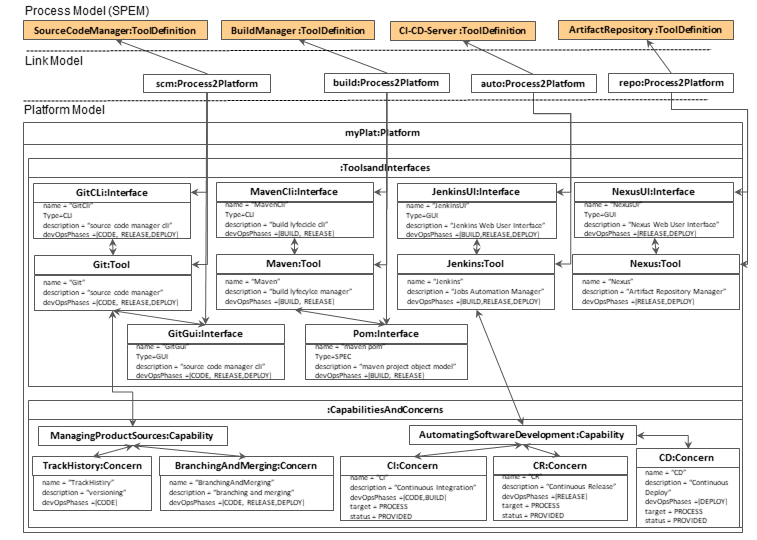
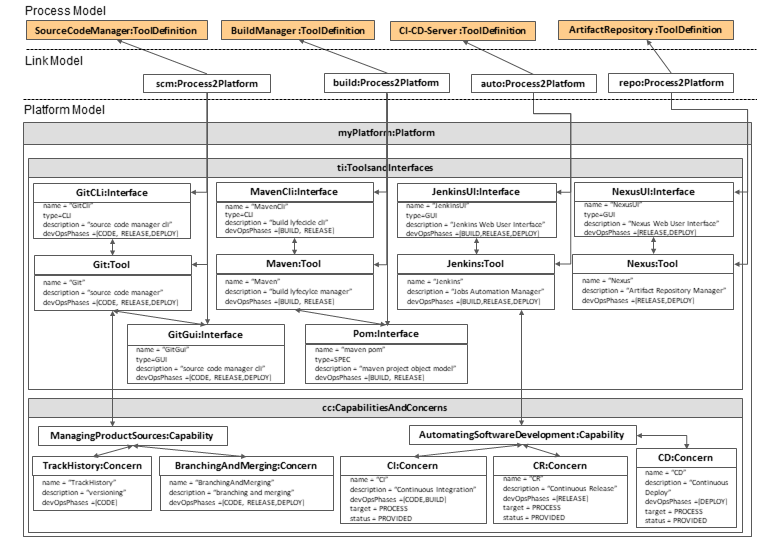
Updated Readme of DevOpsML

diff --git a/README.md b/README.md
@@ -1,14 +1,18 @@
 ## DevOpsML
 DevOpsML is a parent project that comprises the three subproject, PlatformMM, LinkingMM and Spem2.
 
-The **spem2 subproject** has the *spem2Complete.ecore* generated via UML editor from CMOF files provided by OMG. In the subproject folder *spemmodels* there are examples of DevOps processes conforming to *spem2Complete.ecore*. 
+In the **spem2 subproject**, in the folder *model*, there is the *spem2Complete.ecore* generated via UML editor from CMOF files provided by OMG. In the subproject folder *spemmodels* there are examples of DevOps processes conforming to *spem2Complete.ecore*. \
+The ecore models in *spemmodels/deopsprocess/devopsprocess.model* and in *spemmodels/giflowrelease/releaseprocess.model* are represented in the figure below.
+![Image of object-diagram title](figures/spem-models-new-v2.png)
+These same models can be found in the Magic Draw file *docs/magicdraw/ReleaseProcessmdzip*
 
-In the **platformmm subproject** there is the metamodel for DevOps platforms. In the subproject folder *platformmmmodels* there are examples of libraries 'Tools and Interfaces', folder *tiLib*,  and 'Capabilities and Concerns', folder *ccLib*. In the same folder there is the *myPlat.model*, that is the representation of the platform obtained connecting the models in the libraries *tiLib* and *ccLib*.
 
-In the  **linkingmm subproject** there is the linking metamodel. With this metamodel it is possible to link elements of the spem2 process(es) between them or with the platform elements. It is also possible to link platform's elements between them.\
-In the subproject folder *modelink*, the example *myPlatLinking.model* links elements from the spem2 process modeled in *spem2/spemmodels/giflowreleas/gitflowrelease.model* to elements from the platform represented in *platformmm/platformmmmodels/myPlat.model*.
+In the **platformmm subproject**, in the folder *model*, there is the metamodel for DevOps platforms: *platformmm.ecore*. In the subproject folder *platformmmmodels* there are examples of libraries 'Tools and Interfaces', folder *tiLib*,  and 'Capabilities and Concerns', folder *ccLib*. In the same folder there is the *myPlat.model*, that is the representation of the platform obtained connecting the models in the libraries *tiLib* and *ccLib*. This model is represented in the *Platform Model* section of the object diagram below.
 
-The following picture shows the links of *myPlatLinking.model* that are set among multiple tools (Git, Maven, Jenkins, Nexus) from the platform model represented by *myPlat.model* and SPEM tool definitions represented on *gitflowrelease.model*.
+In the  **linkingmm subproject**, in the folder *model*, there is the linking metamodel *linkingmm.ecore*. With this metamodel it is possible to link elements of the spem2 process(es) between them or with the platform elements. It is also possible to link platform's elements between them.\
+In the subproject folder *modelink*, the example *ReleaseProcMyPlatLink.model* links elements from the spem2 process modeled in *spemmodels/giflowrelease/releaseprocess.model* to elements from the platform represented in *platformmm/platformmmmodels/myPlat.model*.
 
-![Image of object-diagram](figures/object-diagram.png)
+The following object diagram shows the links of *ReleaseProcMyPlatLink.model*, that are set among multiple tools (Git, Maven, Jenkins, Nexus) from the platform model represented by *myPlat.model*, and SPEM tool definitions represented on *releaseprocess.model*.
+
+![Image of object-diagram title](figures/object-diagram.png)
 
